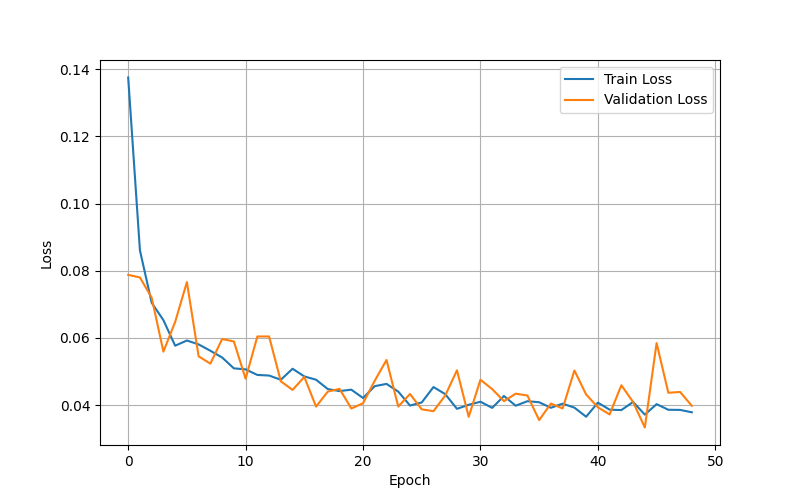
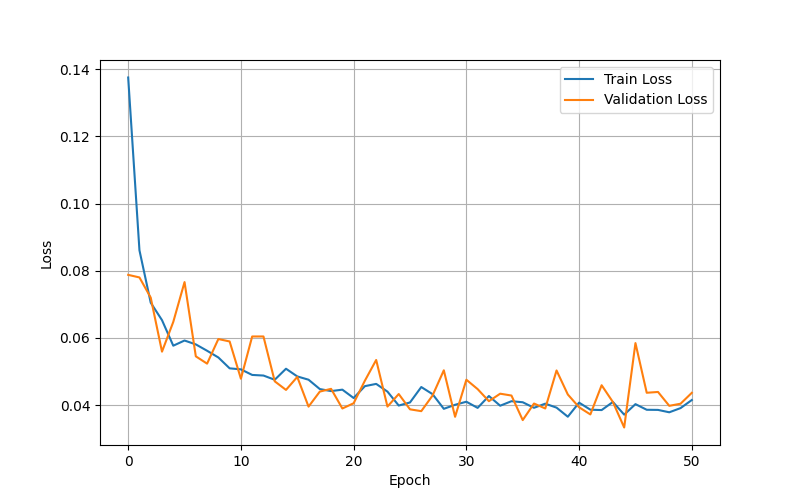
pretraining evaluation setup

diff --git a/src/evaluation/evaluate_ssl.py b/src/evaluation/evaluate_ssl.py
@@ -1,0 +1,205 @@
+import os
+import torch
+import numpy as np
+from tqdm import tqdm
+
+from skimage.metrics import (
+    peak_signal_noise_ratio,
+    structural_similarity
+)
+
+from torch.utils.data import DataLoader
+
+from src.models.ssl_model import (
+    SSLModel
+)
+
+from src.data.dataloader import (
+    build_ssl_dataloader
+)
+
+from src.utils.config_loader import (
+    load_config
+)
+
+
+def denormalize(image):
+
+    image = image.astype(
+        np.float32
+    )
+
+    image_min = image.min()
+
+    image_max = image.max()
+
+    return (
+        image - image_min
+    ) / (
+        image_max
+        - image_min
+        + 1e-8
+    )
+
+
[email redacted]_grad()
+def evaluate():
+
+    device = torch.device(
+
+        "cuda"
+
+        if torch.cuda.is_available()
+
+        else "cpu"
+    )
+
+    print(
+        f"Using device: "
+        f"{device}"
+    )
+
+    config = load_config(
+        "configs/pretrain.yaml"
+    )
+
+    _, val_loader = (
+        build_ssl_dataloader(
+            config
+        )
+    )
+
+    model = SSLModel()
+
+    weights = torch.load(
+
+        "pretrained_weights/"
+        "ssl_encoder.pth",
+
+        map_location=device
+    )
+
+    model.load_state_dict(
+        weights
+    )
+
+    model.to(device)
+
+    model.eval()
+
+    psnr_scores = []
+    ssim_scores = []
+
+    print(
+        "Evaluating..."
+    )
+
+    for x, y in tqdm(
+        val_loader
+    ):
+
+        x = x.to(device)
+
+        y = y.to(device)
+
+        pred = model(x)
+
+        pred = (
+            pred.cpu()
+            .numpy()
+        )
+
+        y = (
+            y.cpu()
+            .numpy()
+        )
+
+        batch_size = (
+            pred.shape[0]
+        )
+
+        for b in range(
+            batch_size
+        ):
+
+            for c in range(
+                pred.shape[1]
+            ):
+
+                gt = y[b, c]
+
+                recon = pred[b, c]
+
+                gt = denormalize(gt)
+
+                recon = denormalize(
+                    recon
+                )
+
+                # Brain/tumor region
+                mask = gt > 0
+
+                if (
+                    mask.sum()
+                    == 0
+                ):
+                    continue
+
+                gt_masked = (
+                    gt[mask]
+                )
+
+                recon_masked = (
+                    recon[mask]
+                )
+
+                psnr = (
+                    peak_signal_noise_ratio(
+                        gt_masked,
+                        recon_masked,
+                        data_range=1.0
+                    )
+                )
+
+                # SSIM needs 2D
+                ssim = (
+                    structural_similarity(
+                        gt,
+                        recon,
+                        data_range=1.0
+                    )
+                )
+
+                psnr_scores.append(
+                    psnr
+                )
+
+                ssim_scores.append(
+                    ssim
+                )
+
+    avg_psnr = np.mean(
+        psnr_scores
+    )
+
+    avg_ssim = np.mean(
+        ssim_scores
+    )
+
+    print("\nResults")
+    print("-" * 30)
+
+    print(
+        f"Average PSNR: "
+        f"{avg_psnr:.4f}"
+    )
+
+    print(
+        f"Average SSIM: "
+        f"{avg_ssim:.4f}"
+    )
+
+
+if __name__ == "__main__":
+
+    evaluate()